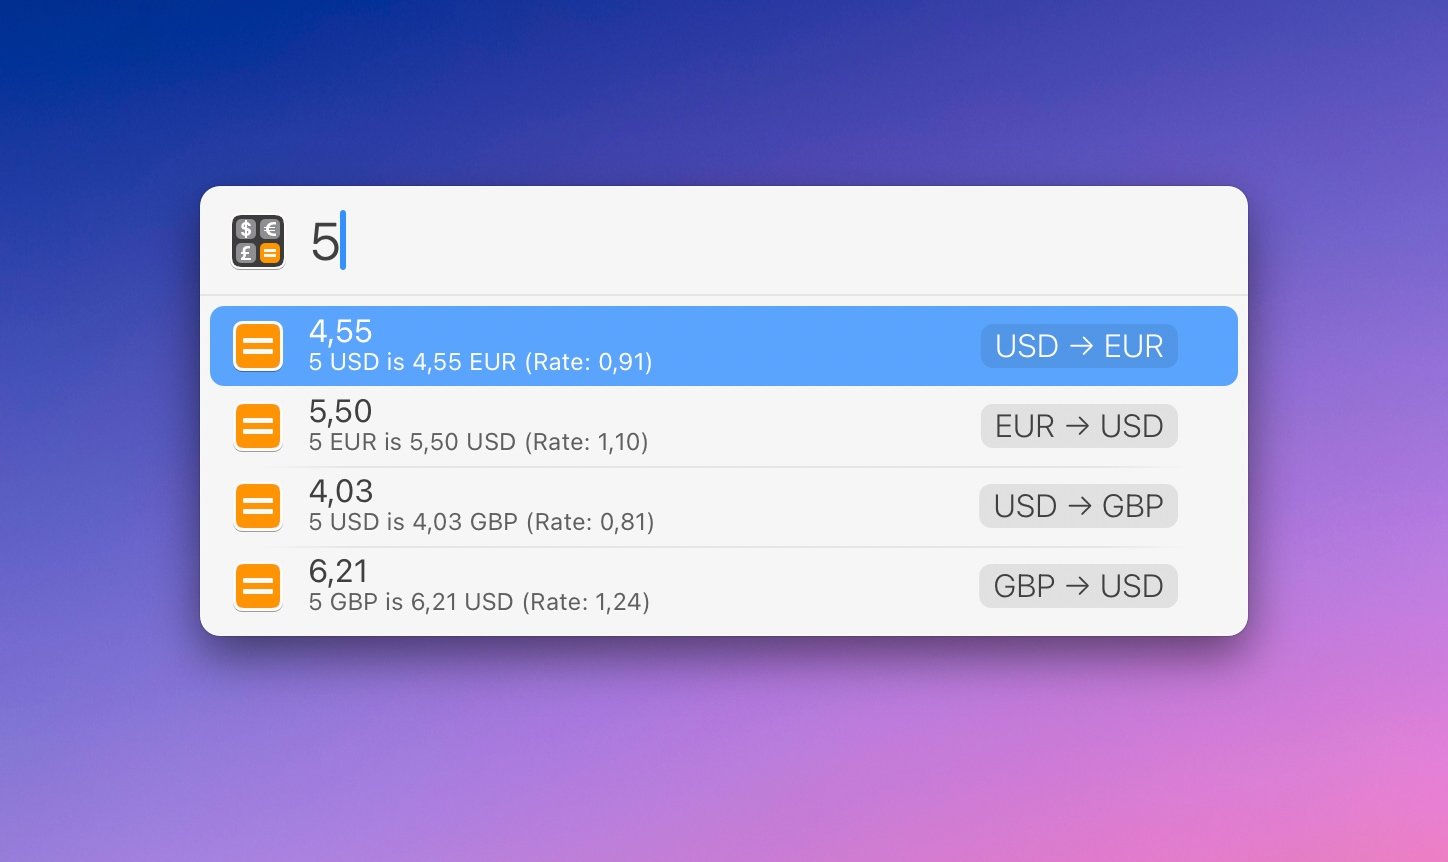
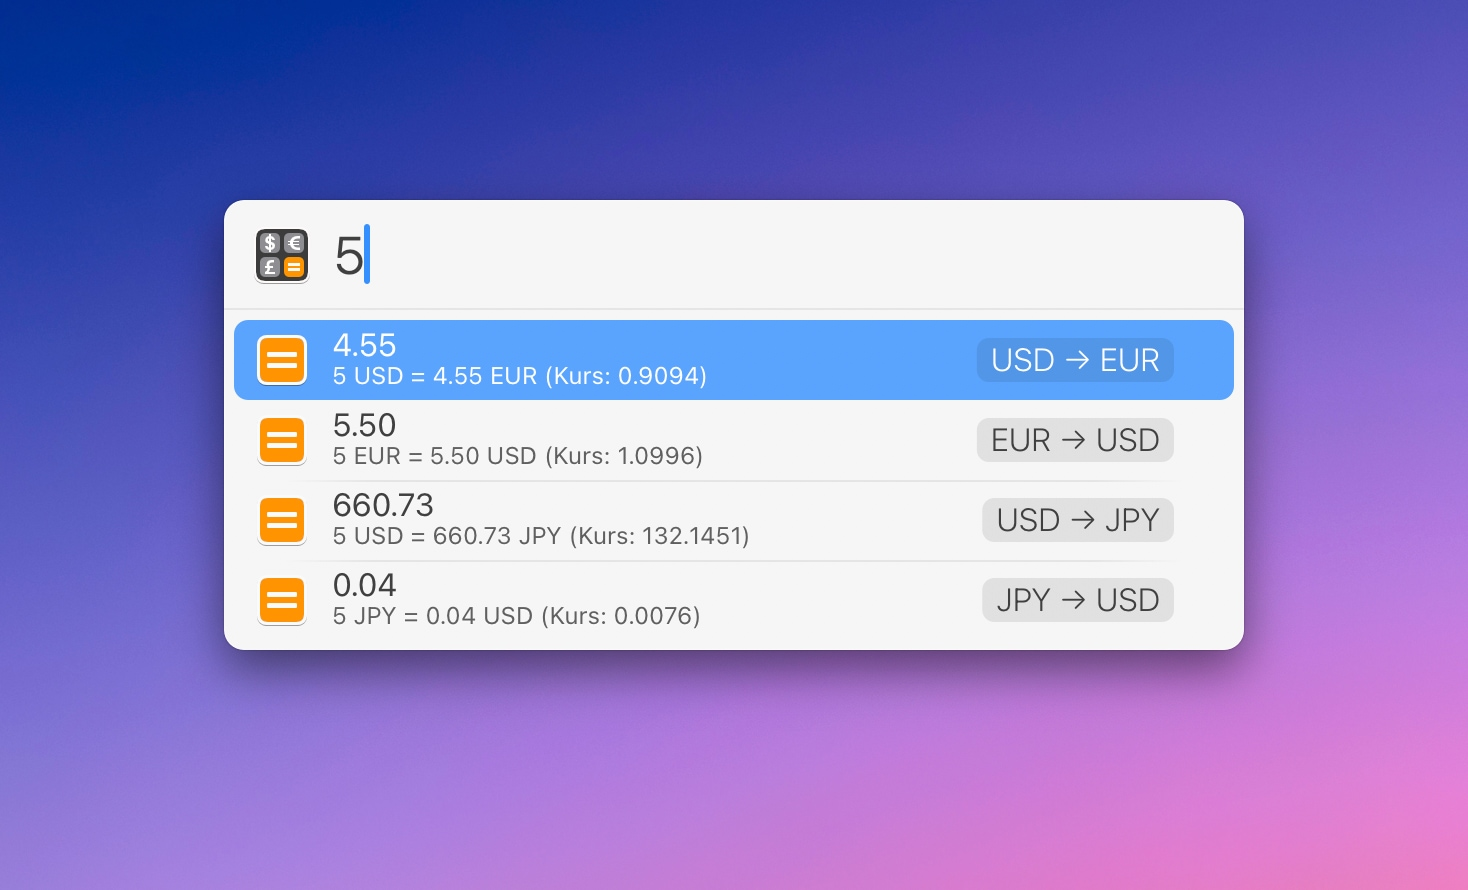
1.3.2
- now showing 4 decimals on the rate
- added option to open a selected rate on Google Finance (e.g. to see its development over the last month)

diff --git a/Converter-Actions/Currency Converter.lbaction/Contents/Scripts/default.js b/Converter-Actions/Currency Converter.lbaction/Contents/Scripts/default.js
@@ -91,7 +91,7 @@ function main(argument) {
         ' ' +
         targetCurrency +
         ' (Rate: '.localize() +
-        baseToTarget.toFixed(2) +
+        baseToTarget.toFixed(4) +
         ')';
 
       var subBaseResult =
@@ -103,7 +103,7 @@ function main(argument) {
         ' ' +
         base +
         ' (Rate: '.localize() +
-        targetToBase.toFixed(2) +
+        targetToBase.toFixed(4) +
         ')';
 
       result.push(
@@ -115,10 +115,10 @@ function main(argument) {
           action: 'showDetails',
           actionArgument: {
             result: targetResult,
-            currencyTitle: targetCurrency,
-            rate: baseToTarget.toFixed(2).toString(),
+            target: targetCurrency,
+            rate: baseToTarget.toFixed(4).toString(),
             argument: argument.toString(),
-            currencyBadge: base,
+            base: base,
             usesCommaSeparator: usesCommaSeparator,
           },
         },
@@ -130,10 +130,10 @@ function main(argument) {
           action: 'showDetails',
           actionArgument: {
             result: baseResult,
-            currencyTitle: base,
-            rate: targetToBase.toFixed(2).toString(),
+            target: base,
+            rate: targetToBase.toFixed(4).toString(),
             argument: argument.toString(),
-            currencyBadge: targetCurrency,
+            base: targetCurrency,
             usesCommaSeparator: usesCommaSeparator,
           },
         }
@@ -162,17 +162,23 @@ function showDetails(dict) {
   var details = [
     {
       title: dict.result,
-      badge: dict.currencyTitle,
+      badge: dict.target,
       icon: 'result',
     },
     {
       title: dict.rate,
       badge: 'Rate'.localize(),
       icon: 'rate',
+      action: 'openURL',
+      actionArgument: {
+        argument: dict.argument,
+        base: dict.base,
+        target: dict.target,
+      },
     },
     {
       title: dict.argument,
-      badge: dict.currencyBadge,
+      badge: dict.base,
       icon: 'from',
     },
   ];
@@ -204,6 +210,18 @@ function showDetails(dict) {
   details.push(info);
 
   return details;
+}
+
+function openURL(dict) {
+  var url =
+    'https://www.google.com/finance/quote/' +
+    dict.base +
+    '-' +
+    dict.target +
+    '?window=1M';
+
+  LaunchBar.hide();
+  LaunchBar.openURL(url);
 }
 
 // SETTING FUNCTIONS

diff --git a/Converter-Actions/README.md b/Converter-Actions/README.md
@@ -4,13 +4,15 @@
 
 ## Currency converter action: 
 
-<img src="01.jpg" width="704"/> 
+<img src="01.jpg" width="734"/> 
 
 The purpose of this action is to convert currencies you use frequently with as little input as necessary. 
 
 You can use `.` or `,` as decimal separators. Group separators are not supported currently. You can show a detailed view or do the usual things with a selected result (e.g. paste with `Shift (⇧)` + `Enter (↩)`).
 
-<img src="02.jpg" width="704"/> 
+<img src="02.jpg" width="734"/> 
+
+If you hit return on a rate in the detailed view, you will be taken to Google Finance, showing the rate development over the past month.
 
 **Settings:** Press `Shift (⇧)` +  `Enter (↩)` when the action is selected to get to settings.
 
